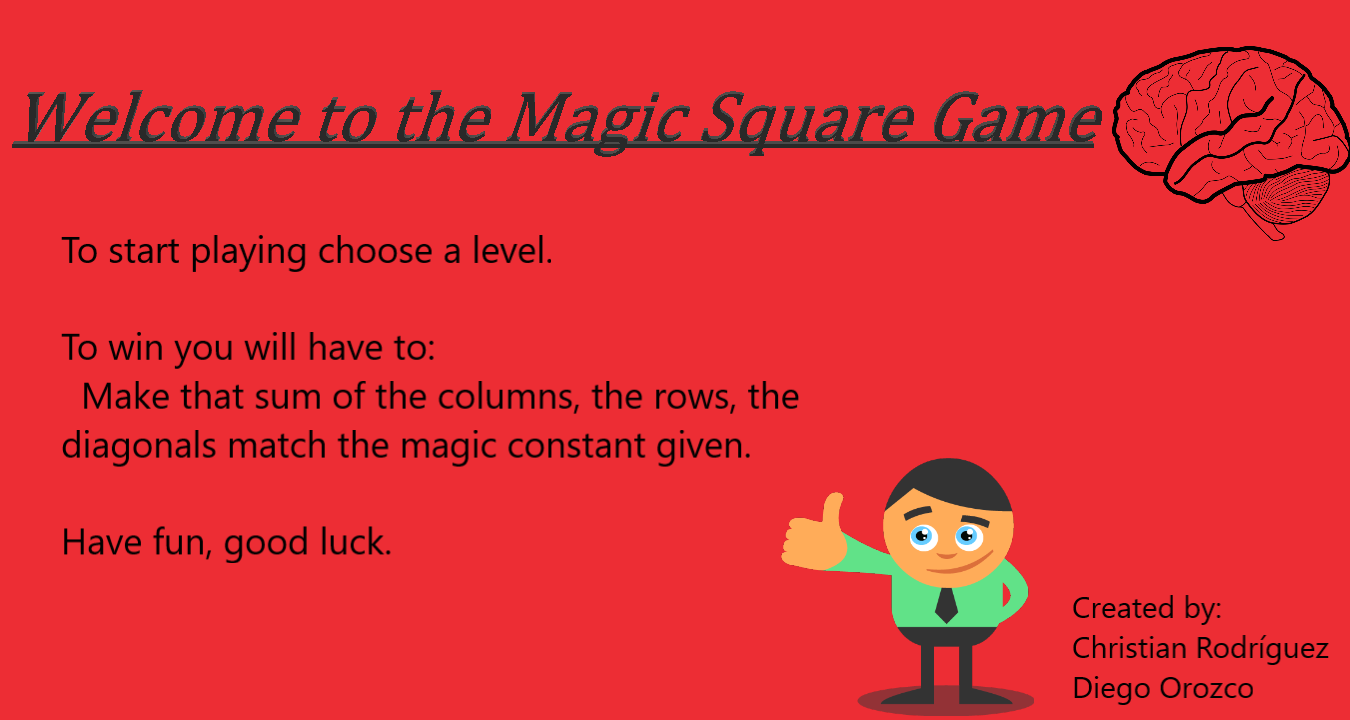
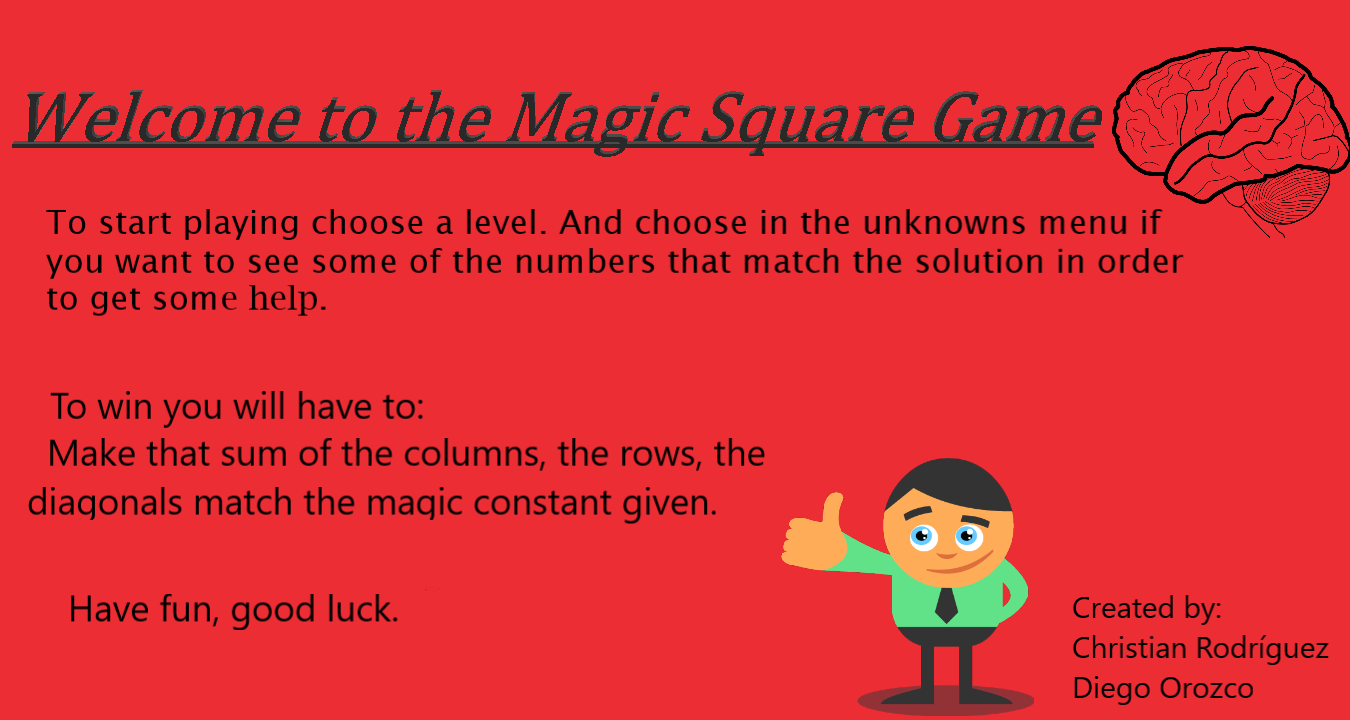
change instruction in the welcome menu

Changed region(s): [[0.0311, 0.4583, 0.5911, 0.7944], [0.0311, 0.275, 0.8711, 0.4278], [0.0311, 0.825, 0.3111, 0.8861]]

diff --git a/src/MagicSquareView.java b/src/MagicSquareView.java
@@ -36,13 +36,13 @@ public class MagicSquareView extends JApplet implements ActionListener
 	// A reference to a ComboBox, that contains the levels 
 	private JComboBox<Object> sizesComboBox = null;
 
-	// Contains the options about the unknows
+	// Contains the options about the unknowns
 	private JComboBox<Object> unknownComboBox = null;
 
 	// An array with the levels of the game
 	private String gameLevels[]= {"-","3","4","5","6", "7", "8"};
 	
-	// An array with uknow options
+	// An array with uknokw options
 	private String unknowLevels[]= {"-","Yes", "No"};
 
 	// A flag in order to know if the user choose the option as a yes
@@ -54,7 +54,7 @@ public class MagicSquareView extends JApplet implements ActionListener
 	// The welcome image panel 
 	private JLabel picLabel  = null;
 
-	// The Jbutton, to star the game
+	// The Button, to star the game
 	private JButton startButton = null;
 
 	// When the level is finished, there is summit button to make checks
